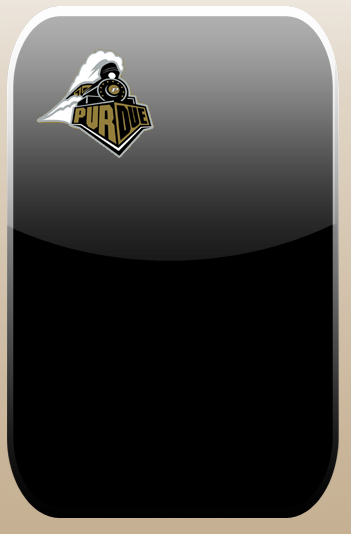
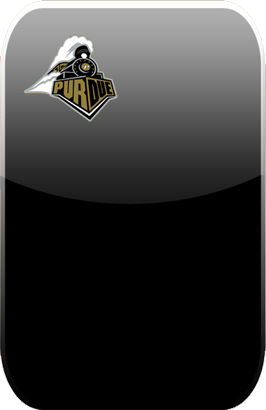
rescaling sports page and widget

Changed region(s): [[0.0, 0.0, 1.0, 1.0], [0.0902, 0.0878, 0.4511, 0.2927]]

diff --git a/scoreboard.py b/scoreboard.py
@@ -15,22 +15,22 @@ class Scoreboard(QWidget):
         self.awayLabel.viewport().setAutoFillBackground(False)
         self.awayLabel.setFrameShape(QTextEdit.NoFrame)
         self.awayLabel.setFrameShadow(QTextEdit.Plain)
-        self.awayLabel.setGeometry(QRect(20,200,180,150))
+        self.awayLabel.setGeometry(QRect(15,150,160,150))
 
         self.awayScoreLabel = QLabel(self.widget)
-        self.awayScoreLabel.setGeometry(QRect(210,150,200,150))
+        self.awayScoreLabel.setGeometry(QRect(180,100,100,150))
 
         self.homeScoreLabel = QLabel(self.widget)
-        self.homeScoreLabel.setGeometry(QRect(210,35,200,150))
+        self.homeScoreLabel.setGeometry(QRect(180,5,200,150))
 
         self.dateLabel = QLabel(self.widget)
-        self.dateLabel.setGeometry(QRect(125,350,300,150))
+        self.dateLabel.setGeometry(QRect(90,280,300,150))
 
         self.headlineLabel = QLabel(self.widget)
-        self.headlineLabel.setGeometry(QRect(50,250,300,150))
+        self.headlineLabel.setGeometry(QRect(50,215,300,150))
 
         self.path = os.getcwd()
-        self.widget.setStyleSheet(QApplication.translate("Form", "background-image: url(" + self.path + "/images/score.png);", None, QApplication.UnicodeUTF8))
+        self.widget.setStyleSheet(QApplication.translate("Form", "background-image: url(" + self.path + "/images/score.png); background-repeat:no-repeat;", None, QApplication.UnicodeUTF8))
 
         self.homeScoreLabel.setStyleSheet(QApplication.translate("Form", "background-image: url(null);", None, QApplication.UnicodeUTF8))
         self.setHomeScore('10')
@@ -57,7 +57,7 @@ class Scoreboard(QWidget):
         self.homeScoreLabel.setText(QApplication.translate("Form", "<html><head><meta name=\"qrichtext\" content=\"1\" /><style type=\"text/css\">\n"
         "p, li { white-space: pre-wrap; }\n"
         "</style></head><body style=\" font-family:\'Sans Serif\'; font-size:9pt; font-weight:400; font-style:normal;\">\n"
-        "<p style=\" margin-top:0px; margin-bottom:0px; margin-left:0px; margin-right:0px; -qt-block-indent:0; text-indent:0px;\"><span style=\"font-size:66pt; color:#b8860b\">"+score+"</span></p></body></html>", None, QApplication.UnicodeUTF8))
+        "<p style=\" margin-top:0px; margin-bottom:0px; margin-left:0px; margin-right:0px; -qt-block-indent:0; text-indent:0px;\"><span style=\"font-size:45pt; color:#b8860b\">"+score+"</span></p></body></html>", None, QApplication.UnicodeUTF8))
 
     def awayScore(self):
         return self.awayScoreLabel.text()
@@ -66,7 +66,7 @@ class Scoreboard(QWidget):
          self.awayScoreLabel.setText(QApplication.translate("Form", "<html><head><meta name=\"qrichtext\" content=\"1\" /><style type=\"text/css\">\n"
         "p, li { white-space: pre-wrap; }\n"
         "</style></head><body style=\" font-family:\'Sans Serif\'; font-size:9pt; font-weight:400; font-style:normal;\">\n"
-        "<p style=\" margin-top:0px; margin-bottom:0px; margin-left:0px; margin-right:0px; -qt-block-indent:0; text-indent:0px;\"><span style=\" font-size:66pt; color:#b8860b;\">"+score+"</span></p></body></html>", None, QApplication.UnicodeUTF8))
+        "<p style=\" margin-top:0px; margin-bottom:0px; margin-left:0px; margin-right:0px; -qt-block-indent:0; text-indent:0px;\"><span style=\" font-size:45pt; color:#b8860b;\">"+score+"</span></p></body></html>", None, QApplication.UnicodeUTF8))
 
 
     def awayTeam(self):
@@ -76,7 +76,7 @@ class Scoreboard(QWidget):
         self.awayLabel.setText(QApplication.translate("Form", "<html><head><meta name=\"qrichtext\" content=\"1\" /><style type=\"text/css\">\n"
         "p, li { white-space: pre-wrap; }\n"
         "</style></head><body style=\" font-family:\'Sans Serif\'; font-size:9pt; font-weight:400; font-style:normal;\">\n"
-        "<p style=\" margin-top:0px; margin-bottom:0px; margin-left:0px; margin-right:0px; -qt-block-indent:0; text-indent:0px;\"><span style=\" font-size:24pt; color:#b8860b;\">" + team + "</span></p></body></html>", None, QApplication.UnicodeUTF8))
+        "<p style=\" margin-top:0px; margin-bottom:0px; margin-left:0px; margin-right:0px; -qt-block-indent:0; text-indent:0px;\"><span style=\" font-size:22pt; color:#b8860b;\">" + team + "</span></p></body></html>", None, QApplication.UnicodeUTF8))
 
 
     def date(self):
@@ -86,7 +86,7 @@ class Scoreboard(QWidget):
         self.dateLabel.setText(QApplication.translate("Form", "<html><head><meta name=\"qrichtext\" content=\"1\" /><style type=\"text/css\">\n"
         "p, li { white-space: pre-wrap; }\n"
         "</style></head><body style=\" font-family:\'Sans Serif\'; font-size:9pt; font-weight:400; font-style:normal;\">\n"
-        "<p style=\" margin-top:0px; margin-bottom:0px; margin-left:0px; margin-right:0px; -qt-block-indent:0; text-indent:0px;\"><span style=\" font-size:29pt; color:#b8860b;\">"+datestr+"</span></p></body></html>", None, QApplication.UnicodeUTF8))
+        "<p style=\" margin-top:0px; margin-bottom:0px; margin-left:0px; margin-right:0px; -qt-block-indent:0; text-indent:0px;\"><span style=\" font-size:24pt; color:#b8860b;\">"+datestr+"</span></p></body></html>", None, QApplication.UnicodeUTF8))
 
     def headline(self):
         return self.headlineLabel.text()
@@ -95,7 +95,7 @@ class Scoreboard(QWidget):
         self.headlineLabel.setText(QApplication.translate("Form", "<html><head><meta name=\"qrichtext\" content=\"1\" /><style type=\"text/css\">\n"
         "p, li { white-space: pre-wrap; }\n"
         "</style></head><body style=\" font-family:\'Sans Serif\'; font-size:9pt; font-weight:400; font-style:normal;\">\n"
-        "<p style=\" margin-top:0px; margin-bottom:0px; margin-left:0px; margin-right:0px; -qt-block-indent:0; text-indent:0px;\"><span style=\" font-size:29pt; color:#b8860b;\">"+hl+"</span></p>\n"
+        "<p style=\" margin-top:0px; margin-bottom:0px; margin-left:0px; margin-right:0px; -qt-block-indent:0; text-indent:0px;\"><span style=\" font-size:24pt; color:#b8860b;\">"+hl+"</span></p>\n"
         , None, QApplication.UnicodeUTF8))
 
 if __name__ == "__main__":

diff --git a/sportsview.py b/sportsview.py
@@ -15,37 +15,35 @@ import os
 class SportsView(object):
     def setupUi(self, Dialog):
         Dialog.setObjectName("Dialog")
-        Dialog.resize(QtCore.QSize(QtCore.QRect(0,0,1372,932).size()).expandedTo(Dialog.minimumSizeHint()))
-        #Dialog.setWindowFlags(QtCore.Qt.FramelessWindowHint)
-
+        Dialog.resize(QtCore.QSize(QtCore.QRect(0,0,1024,768).size()))
+        Dialog.setWindowFlags(QtCore.Qt.FramelessWindowHint)
 
         self.frame = QtGui.QFrame(Dialog)
-        self.frame.setGeometry(QtCore.QRect(0,0,1372,932))
-        self.frame.setFrameShape(QtGui.QFrame.StyledPanel)
-        self.frame.setFrameShadow(QtGui.QFrame.Raised)
+        self.frame.setGeometry(QtCore.QRect(0,0,1024,768))
+        self.frame.setFrameShape(QtGui.QFrame.NoFrame)
         self.frame.setObjectName("frame")
 
         self.score1 = Scoreboard(Dialog)
-        self.score1.setGeometry(QtCore.QRect(180,290,self.score1.width(),self.score1.height()))
+        self.score1.setGeometry(QtCore.QRect(115,230,self.score1.width(),self.score1.height()))
 
         self.score2 = Scoreboard(Dialog)
-        self.score2.setGeometry(QtCore.QRect(530,290,self.score1.width(),self.score1.height()))
+        self.score2.setGeometry(QtCore.QRect(400,230,self.score1.width(),self.score1.height()))
 
         self.score3 = Scoreboard(Dialog)
-        self.score3.setGeometry(QtCore.QRect(880,290,self.score1.width(),self.score1.height()))
+        self.score3.setGeometry(QtCore.QRect(685,230,self.score1.width(),self.score1.height()))
 
         self.backButton = QtGui.QPushButton(Dialog)
-        self.backButton.setGeometry(QtCore.QRect(380,150,128,128))
+        self.backButton.setGeometry(QtCore.QRect(290,100,128,128))
         self.backButton.setIconSize(QtCore.QSize(240,240))
         self.backButton.setObjectName("backButton")
 
         self.forward = QtGui.QPushButton(Dialog)
-        self.forward.setGeometry(QtCore.QRect(950, 150, 128, 128))
+        self.forward.setGeometry(QtCore.QRect(670, 100, 128, 128))
         self.forward.setIconSize(QtCore.QSize(240, 240))
         self.forward.setObjectName("forward")
 
         self.homeButton= QtGui.QPushButton(Dialog)
-        self.homeButton.setGeometry(QtCore.QRect(10,750,100,100))
+        self.homeButton.setGeometry(QtCore.QRect(10,680,80,80))
 
         self.retranslateUi(Dialog)
         QtCore.QMetaObject.connectSlotsByName(Dialog)
@@ -62,9 +60,9 @@ class SportsView(object):
     def retranslateUi(self, Dialog):
         path = os.getcwd()
         Dialog.setWindowTitle(QtGui.QApplication.translate("Dialog", "Dialog", None, QtGui.QApplication.UnicodeUTF8))
-        self.frame.setStyleSheet(QtGui.QApplication.translate("Dialog", "background-image: url(" + path + "/images/mockup_blank_template.png)", None, QtGui.QApplication.UnicodeUTF8))
-        self.backButton.setStyleSheet(QtGui.QApplication.translate("Dialog", "background-image: url(" + path + "/images/back_arrow.png);\n" "border-radius: 1px;", None, QtGui.QApplication.UnicodeUTF8))
-        self.forward.setStyleSheet(QtGui.QApplication.translate("Dialog", "background-image: url(" + path + "/images/forward_arrow.png);\n" "border-radius: 1px;", None, QtGui.QApplication.UnicodeUTF8))
-        self.homeButton.setStyleSheet(QtGui.QApplication.translate("MainWindow", "background-image: url(" + path + "/images/home.png);\n"
+        self.frame.setStyleSheet(QtGui.QApplication.translate("Dialog", "background-image: url(" + path + "/images/mockup_blank_template.png); background-repeat:no-repeat;", None, QtGui.QApplication.UnicodeUTF8))
+        self.backButton.setStyleSheet(QtGui.QApplication.translate("Dialog", "background-image: url(" + path + "/images/back_arrow.png); background-repeat:no-repeat;\n" "border-radius: 1px;", None, QtGui.QApplication.UnicodeUTF8))
+        self.forward.setStyleSheet(QtGui.QApplication.translate("Dialog", "background-image: url(" + path + "/images/forward_arrow.png); background-repeat:no-repeat;\n" "border-radius: 1px;", None, QtGui.QApplication.UnicodeUTF8))
+        self.homeButton.setStyleSheet(QtGui.QApplication.translate("MainWindow", "background-image: url(" + path + "/images/home.png); background-repeat:no-repeat;\n"
         "border-radius: 10px;", None, QtGui.QApplication.UnicodeUTF8))
 

diff --git a/sportshelper.py b/sportshelper.py
@@ -17,7 +17,7 @@ class SportsHelper():
         self.scorelist = []
 
     def showPage(self):
-        self.dialog.showMaximized()
+        self.dialog.show()
         del self.scorelist
         self.scorelist = []
         self.doSearch()
